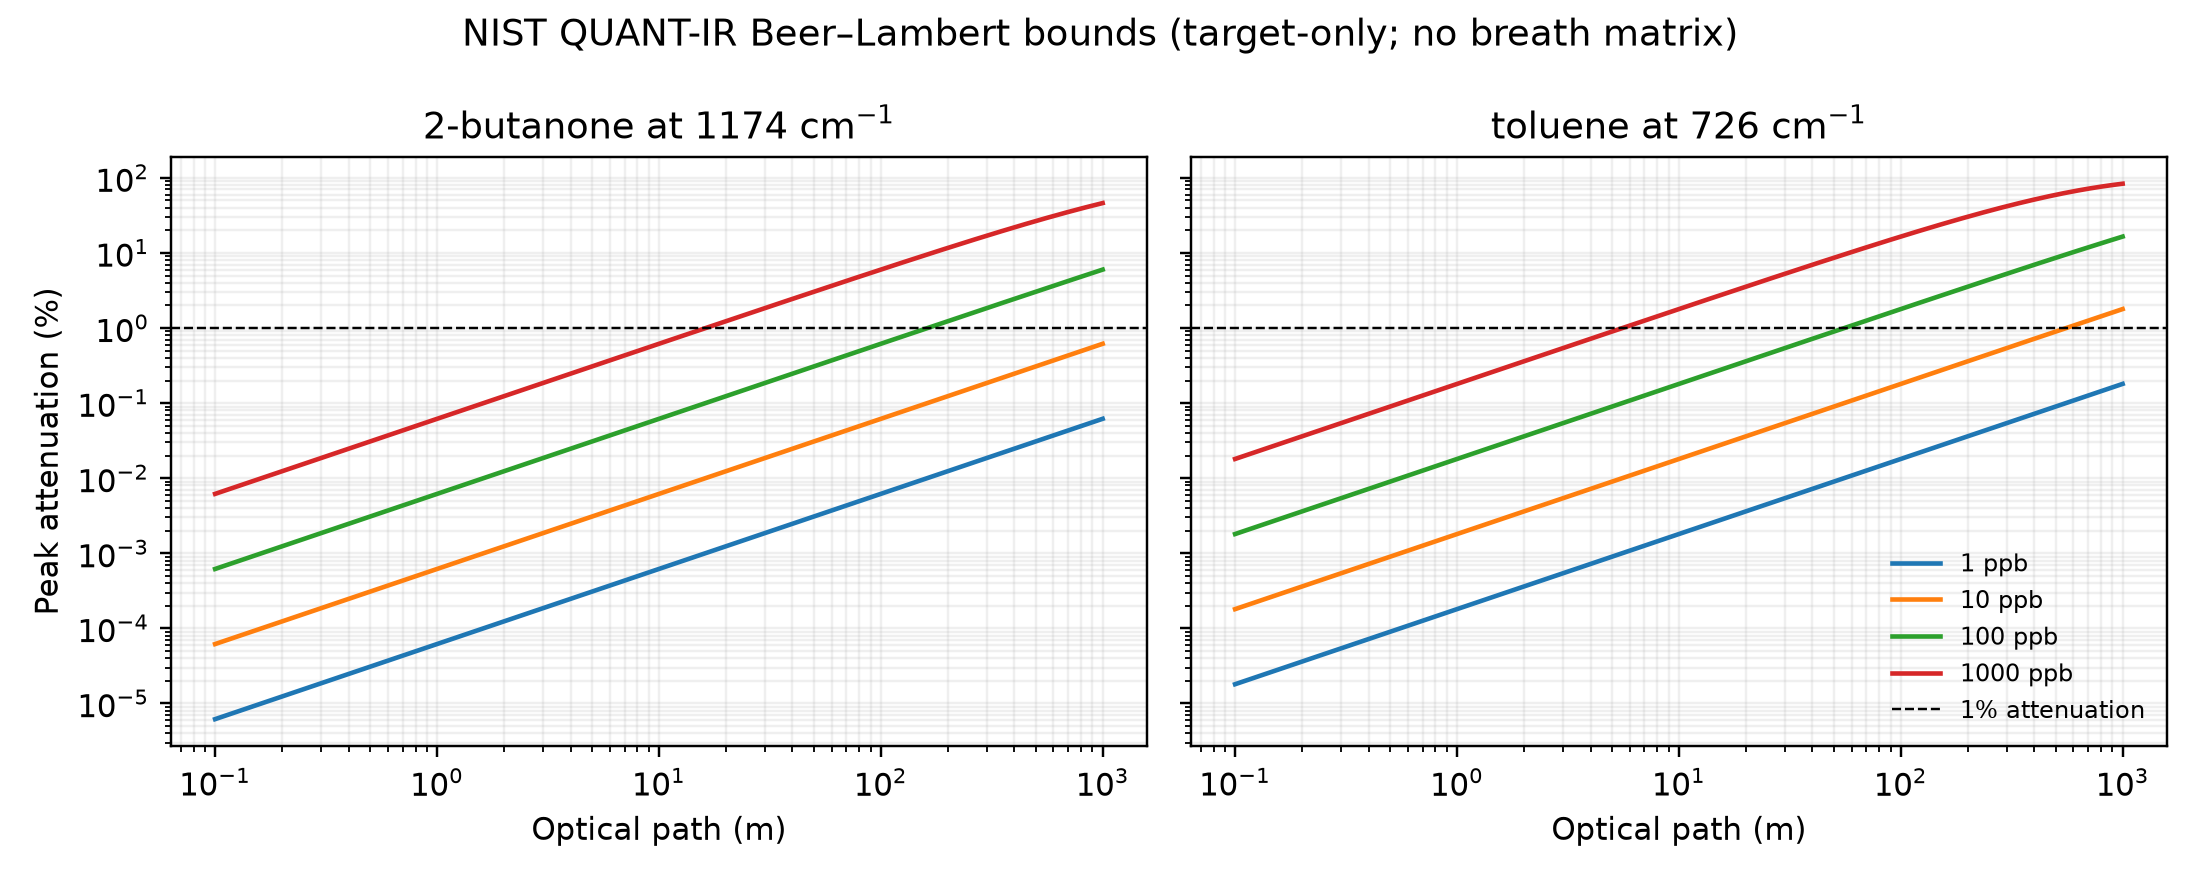
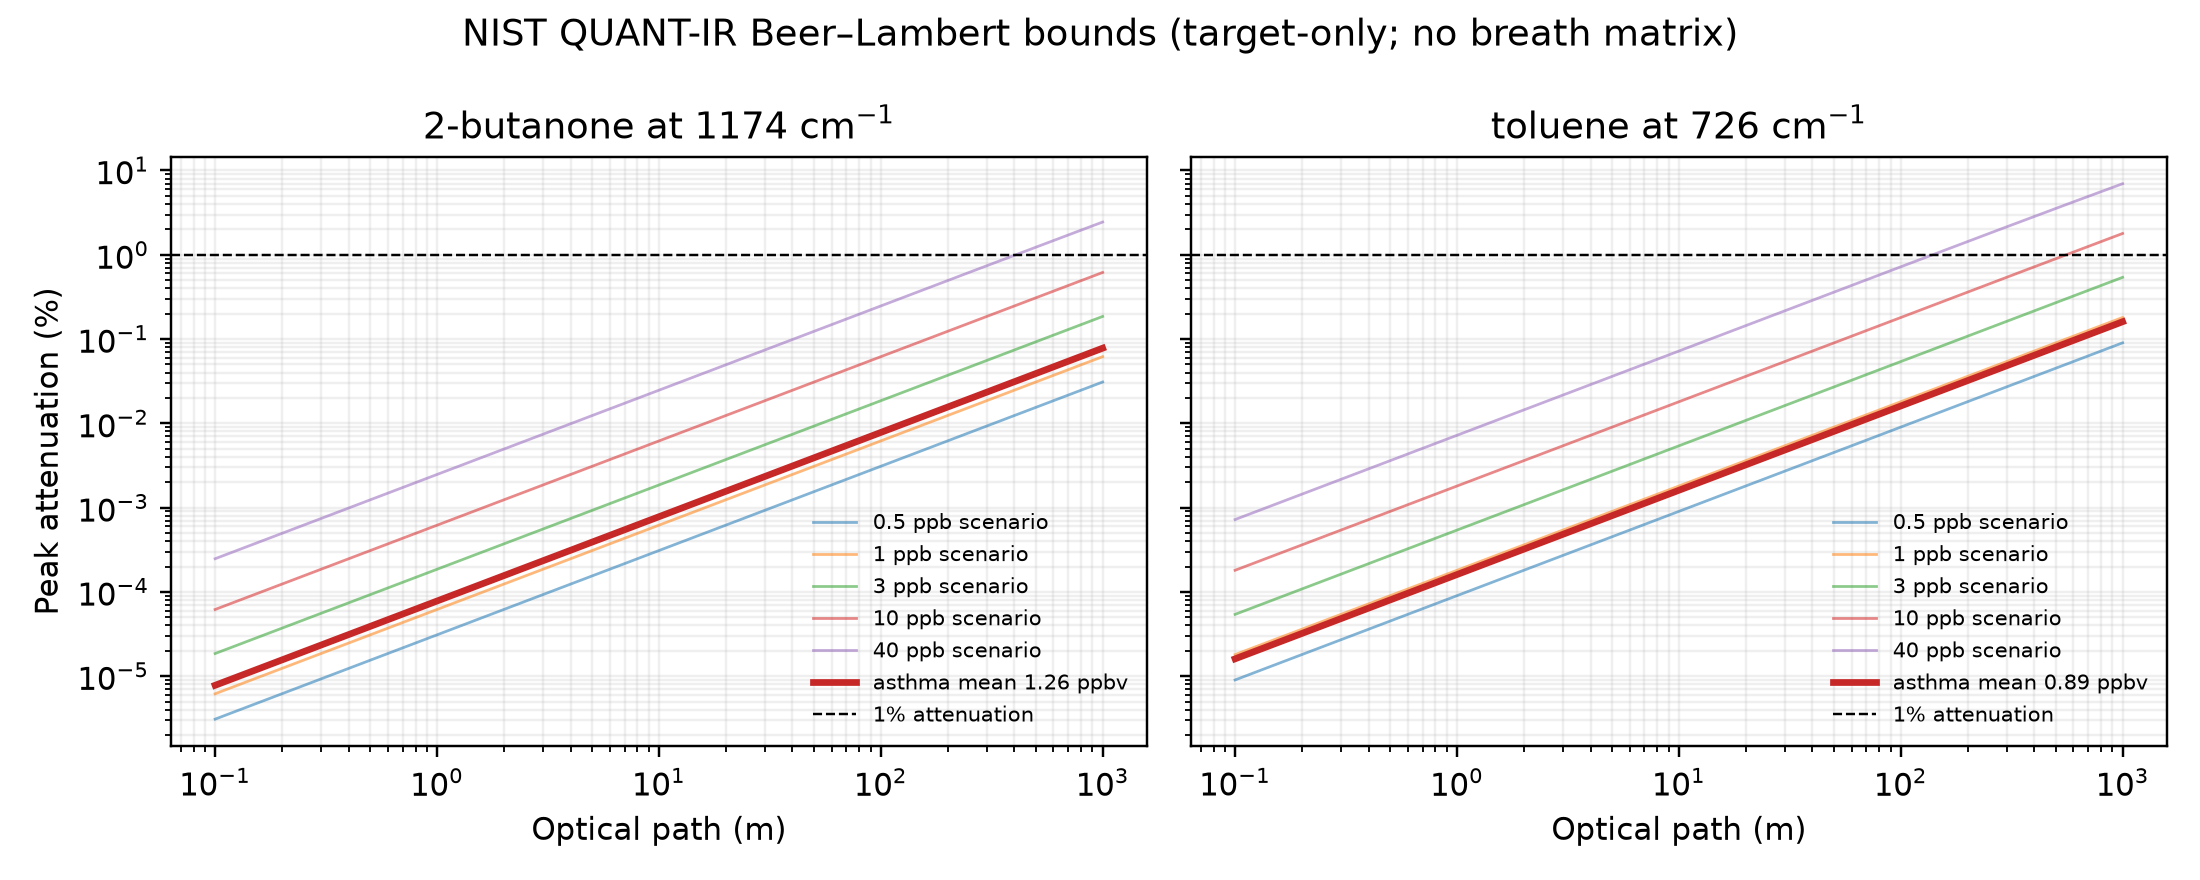
Calibrate detectability with breath concentrations

diff --git a/src/breath_to_photonics/quantitative.py b/src/breath_to_photonics/quantitative.py
@@ -45,7 +45,7 @@ def summarize_target(root: Path, item: dict[str, object], config: dict[str, obje
     positive = window["absorbance"].clip(lower=0.0)
     peak_coefficient = float(positive.max())
     mean_coefficient = float(positive.mean())
-    reference_ppb = float(config["reference_concentration_ppb"])
+    reference_ppb = float(item["evidence_reference_ppb"])
     reference_path = float(config["reference_path_m"])
     target_loss = float(config["target_attenuation_fraction"])
 
@@ -59,6 +59,8 @@ def summarize_target(root: Path, item: dict[str, object], config: dict[str, obje
         "peak_coefficient_per_ppm_m": peak_coefficient,
         "window_mean_coefficient_per_ppm_m": mean_coefficient,
         "reference_ppb": reference_ppb,
+        "reference_sd_ppb": float(item["evidence_sd_ppb"]),
+        "reference_detection_frequency_percent": float(item["evidence_detection_frequency_percent"]),
         "reference_path_m": reference_path,
         "peak_attenuation_fraction": 1.0 - transmission(peak_coefficient, reference_ppb, reference_path),
         "window_mean_attenuation_fraction": 1.0 - transmission(mean_coefficient, reference_ppb, reference_path),
@@ -89,15 +91,18 @@ def plot_detectability(summaries: list[dict[str, object]], concentrations: list[
         coefficient = float(summary["peak_coefficient_per_ppm_m"])
         for concentration in concentrations:
             loss = 1.0 - np.power(10.0, -coefficient * (concentration / 1000.0) * paths)
-            ax.plot(paths, loss * 100.0, label=f"{concentration:g} ppb")
+            ax.plot(paths, loss * 100.0, linewidth=0.9, alpha=0.55, label=f"{concentration:g} ppb scenario")
+        evidence_ppb = float(summary["reference_ppb"])
+        evidence_loss = 1.0 - np.power(10.0, -coefficient * (evidence_ppb / 1000.0) * paths)
+        ax.plot(paths, evidence_loss * 100.0, color="#c62828", linewidth=2.2, label=f"asthma mean {evidence_ppb:g} ppbv")
         ax.axhline(1.0, color="black", linestyle="--", linewidth=0.8, label="1% attenuation")
         ax.set_xscale("log")
         ax.set_yscale("log")
         ax.set_title(f"{summary['name']} at {summary['window_center_cm-1']:.0f} cm$^{{-1}}$")
         ax.set_xlabel("Optical path (m)")
         ax.grid(alpha=0.2, which="both")
+        ax.legend(frameon=False, fontsize=7, loc="lower right")
     axes[0, 0].set_ylabel("Peak attenuation (%)")
-    axes[0, -1].legend(frameon=False, fontsize=8)
     fig.suptitle("NIST QUANT-IR Beer–Lambert bounds (target-only; no breath matrix)")
     fig.tight_layout()
     output.parent.mkdir(parents=True, exist_ok=True)
@@ -117,6 +122,7 @@ def run(root: Path, config: dict[str, object]) -> tuple[pd.DataFrame, dict[str, 
         "quantitative_coverage": f"{len(summaries)}/{len(summaries) + len(config['uncovered_targets'])}",
         "covered_targets": summaries,
         "uncovered_targets": config["uncovered_targets"],
+        "concentration_evidence": config["concentration_evidence"],
         "warning": "Target-only Beer-Lambert bounds are not LODs and exclude H2O, CO2, other VOCs, noise, drift, and sampling losses.",
     }
     return pd.DataFrame(rows), output_summary

diff --git a/docs/QUANTITATIVE_BOUNDS_2026-09-06.md b/docs/QUANTITATIVE_BOUNDS_2026-09-06.md
@@ -12,20 +12,22 @@ T(\tilde\nu)=10^{-a(\tilde\nu)cL},
 
 where `a` is the absorption coefficient, `c` is concentration in ppm, and `L` is optical path in metres.
 
-## Scenario bounds
+## Concentration calibration
 
-The concentration grid from 1–1000 ppb is a sensitivity sweep, **not a claim about physiological concentration**. Using 100 ppb and a 10 m path as a transparent reference scenario:
+A small independent breath study reported quantitative asthma-subgroup means of 1.26 ppbv (SD 0.80; detected in 87.5% of asthma samples) for 2-butanone and 0.89 ppbv (SD 0.60; detected in 50%) for toluene. Its asthma subgroup contained only eight people, so these values are engineering anchors rather than robust population distributions. The source study used calibrated needle-trap GC-MS and reported an LOQ of 0.003 ppbv for both compounds.
+
+Using those asthma means and a 10 m path:
 
 | Target/window | Peak coefficient (ppm⁻¹ m⁻¹) | Peak attenuation | Window-mean attenuation | Path for 1% peak attenuation |
 |---|---:|---:|---:|---:|
-| 2-butanone, 1174 cm⁻¹ | 2.6863×10⁻⁴ | 0.0618% | 0.0463% | 162.5 m |
-| Toluene, 726 cm⁻¹ | 7.8370×10⁻⁴ | 0.1803% | 0.0503% | 55.7 m |
+| 2-butanone, 1174 cm⁻¹ | 2.6863×10⁻⁴ | 0.000780% | 0.000583% | 12.90 km |
+| Toluene, 726 cm⁻¹ | 7.8370×10⁻⁴ | 0.00161% | 0.000448% | 6.26 km |
 
 The peak calculation is an optimistic narrow-channel bound. Across each ±20 cm⁻¹ window, the mean response is smaller; a real filter, laser linewidth, or spectrometer response must be convolved with the coefficient spectrum.
 
 ## Engineering interpretation
 
-At this scenario point, neither target produces a 1% loss in a 10 m path. Toluene is the stronger narrow-feature case, but its clinical status remains exploratory and non-replicated. A compact instrument would probably need effective-path enhancement, stronger concentration evidence, or a signal-extraction method capable of resolving sub-percent changes. This is a design constraint, not yet a hardware recommendation.
+At these literature means, neither target approaches a 1% loss in a 10 m path; the peak-only paths for that loss are kilometres long. Toluene is the stronger narrow-feature case, but its clinical status remains exploratory and non-replicated, and its 50% detection frequency reinforces the risk of exposure and sampling effects. Direct, unenhanced absorption therefore looks implausible at these concentrations. Cavity enhancement, preconcentration, or a substantially lower-noise technique would need explicit quantitative evaluation. This is a design constraint, not yet a hardware recommendation.
 
 ## What remains missing
 
@@ -41,7 +43,7 @@ NIST also cautions that point intensities can be misleading across instrumental 
 
 ## Provenance and reproduction
 
-The coefficient definition, uncertainties, excluded atmospheric-interference regions, and species table are documented by the [NIST Quantitative Infrared Database](https://webbook.nist.gov/chemistry/quant-ir/). Raw JCAMP records are cached locally but excluded from Git; filenames and assumptions are recorded in `configs/quantitative_manifest_v0.1.json`.
+The coefficient definition, uncertainties, excluded atmospheric-interference regions, and species table are documented by the [NIST Quantitative Infrared Database](https://webbook.nist.gov/chemistry/quant-ir/). The concentration anchor comes from [Huzar et al. (2021)](https://doi.org/10.3390/molecules26061787). Raw JCAMP records are cached locally but excluded from Git; filenames and assumptions are recorded in `configs/quantitative_manifest_v0.1.json`.
 
 ```bash
 PYTHONPATH=src python -m breath_to_photonics.quantitative data/raw/spectra/nist-quant

diff --git a/docs/STATUS_AND_ROADMAP_2026-09-06.md b/docs/STATUS_AND_ROADMAP_2026-09-06.md
@@ -1,0 +1,34 @@
+# Status and roadmap — 2026-09-06
+
+## Original plan versus current state
+
+| Original stage | Status | What happened |
+|---|---|---|
+| Audit the clinical release and ambient-air matching | Complete | RADicA files passed structural checks; MaskBG/S1/S2 matching was confirmed |
+| Correct breath signals using matched ambient air | Complete via source release | The supplied B1/B2 matrices were already background-adjusted, filtered, imputed, and normalized by the authors |
+| Discovery selection and untouched-cohort validation | Complete | Participant overlap was removed from validation; no VOC passed the locked replication rule |
+| Match candidates to experimental gas-phase IR spectra | Complete for five exploratory VOCs | Work continued as feasibility analysis because there was no primary replicated candidate |
+| Rank targets by reproducibility, interference, and measurement complexity | Not valid as a final ranking | A qualitative screen and partial quantitative bounds exist, but clinical replication is null and quantitative spectral coverage is only 2/5 |
+
+## Data-driven adjustments
+
+These changes were responses to observed evidence rather than parts of the initial idealized sequence:
+
+1. Three B1/B2 participant overlaps were discovered and removed from validation to prevent leakage.
+2. Because the locked primary analysis returned zero replicated VOCs, subsequent VOCs are labelled exploratory rather than validated targets.
+3. Liquid-phase spectra were rejected; only verified gas-phase records were retained.
+4. H2O/CO2 screening began as normalized shape comparison because the reference records were not quantitatively comparable.
+5. NIST QUANT-IR covered only 2-butanone and toluene, so detectability modelling is explicitly partial rather than filled with estimated coefficients.
+6. The arbitrary 100 ppb demonstration was replaced with small-study asthma means of 1.26 ppbv and 0.89 ppbv. This shifted the estimated 1% peak-attenuation paths from tens or hundreds of metres to kilometres.
+
+## Remaining work
+
+Highest-priority scientific gaps are:
+
+1. Obtain or generate quantitative H2O and CO2 absorption at breath-relevant temperature, pressure, and humidity, then convolve it with the target spectra at declared instrument resolution.
+2. Find stronger concentration evidence across independent breath studies and explicitly model non-detects, ambient contribution, and sampling variation.
+3. Audit GC-MS identity confidence for the exploratory annotations using retention indices and reference-standard evidence.
+4. Define an instrument noise/drift model and compare direct multipass, cavity-enhanced, and preconcentration-assisted architectures.
+5. Stop or redesign the target-selection claim if no clinically replicated and physically measurable target emerges. A defensible negative feasibility result remains an acceptable endpoint.
+
+The next recommended implementation step is item 1. HITRAN access may require an account/API key; the code should keep external line data cached, versioned by metadata, and excluded from Git.

diff --git a/README.md b/README.md
@@ -32,6 +32,8 @@ pytest
 
 Raw public data are not committed. See `data/SOURCES.md` for provenance and download status.
 
+For the distinction between the original plan, evidence-driven adjustments, and remaining work, see `docs/STATUS_AND_ROADMAP_2026-09-06.md`.
+
 ## Current status
 
 The manually downloaded RADicA release passed the structural audit: 112 participants, 346 participant-visits, matched MaskBG/S1/S2 samples, and 142 shared processed VOC columns across B1 and B2. See `docs/DATA_AUDIT_2026-09-06.md`.
@@ -50,6 +52,6 @@ A qualitative interference screen compares those normalized target shapes with g
 
 ![Qualitative H2O and CO2 interference screen](results/figures/interference_windows.png)
 
-NIST QUANT-IR provides compatible absorption coefficients for two of the five exploratory targets: 2-butanone and toluene. A target-only Beer–Lambert parameter sweep now bounds the optical path needed before adding breath-matrix and instrument effects. At 100 ppb and 10 m, predicted peak attenuation is approximately 0.062% and 0.180%, respectively. These values are scenario calculations, not measured breath concentrations or detection limits. See `docs/QUANTITATIVE_BOUNDS_2026-09-06.md`.
+NIST QUANT-IR provides compatible absorption coefficients for two of the five exploratory targets: 2-butanone and toluene. At independent literature asthma means of 1.26 and 0.89 ppbv, respectively, a target-only Beer–Lambert bound predicts only about 0.000780% and 0.00161% peak attenuation over 10 m. The concentration evidence comes from a small eight-person asthma subgroup, and the calculations remain bounds rather than detection limits. See `docs/QUANTITATIVE_BOUNDS_2026-09-06.md`.
 
 ![Target-only quantitative Beer-Lambert bounds](results/figures/quantitative_detectability.png)

diff --git a/data/SOURCES.md b/data/SOURCES.md
@@ -40,3 +40,11 @@ Gas-phase water (CAS 7732-18-5) and carbon dioxide (CAS 124-38-9) JCAMP records 
 - Not present in the NIST Quantitative IR species table: decane, 2-heptanone, and 1,4-dichlorobenzene
 - Coefficient units: `(micromol/mol)-1 m-1 (base 10)`, so concentration in ppm and path in metres can be used directly in the NIST Beer–Lambert convention
 - Coverage and scenario assumptions are locked in `configs/quantitative_manifest_v0.1.json`
+
+## Breath concentration anchor
+
+- Source: Huzar et al., *Needle Trap Device-GC-MS for Characterization of Lung Diseases Based on Breath VOC Profiles*, Molecules 2021, 26, 1787
+- DOI: https://doi.org/10.3390/molecules26061787
+- Relevant values: asthma-subgroup mean (SD) 2-butanone 1.26 (0.80) ppbv and toluene 0.89 (0.60) ppbv
+- Detection frequencies in asthma samples: 87.5% and 50.0%, respectively
+- Limitation: asthma subgroup n=8; these values anchor an engineering scenario and are not treated as population reference intervals
